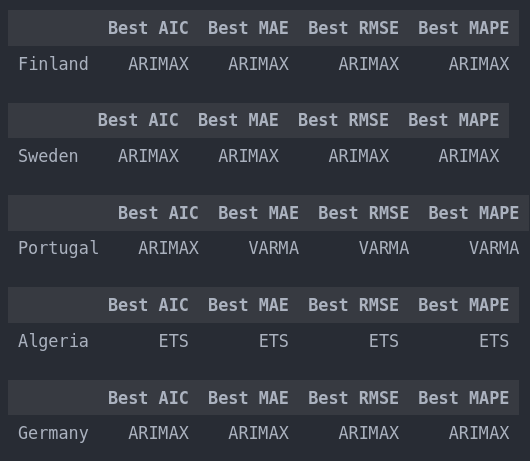
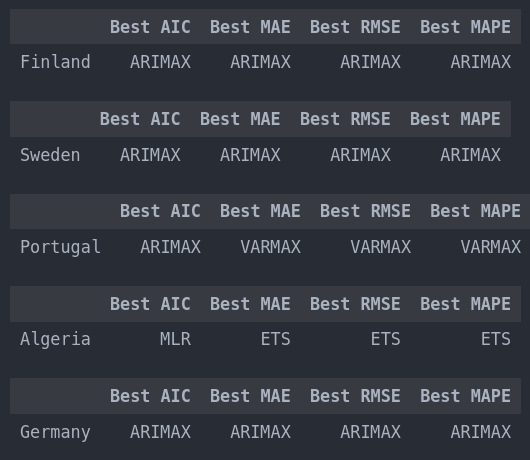
final commit

diff --git a/functions.py b/functions.py
@@ -811,6 +811,14 @@ def grangers_causation_columns(df_train_test_log_dif : dict, nation_list : list)
     """
     For each nation in the nation_list, perform Granger causality tests and return columns that
     Granger cause each other while ensuring GDP is part of the relationship.
+
+    Parameters:
+        df_train_test_log_dif (dict): Dictionary of time series data for each nation.
+
+        nation_list (list): List of nation names.
+
+    Returns:
+        list: list of columns that granger cause each other
     """
     grangers_columns = []
     for nation in nation_list:

diff --git a/README.md b/README.md
@@ -2,19 +2,21 @@
 
 The provided dataset contains estimates of total GDP (gross domestic product) and its components for several countries over the period 1970-2020. This can inform on how these measures have changed over time, and allows to investigate the usefulness of GDP as a measure of wellbeing. These information are available for 220 countries and 17 different indicators were derived.
 
-In "project.ipynb" you can find the main notebook, where the task is carried out. The code here is kept to a minimum to better understand the analysis of the time series and the results; for this purpose, a separate file called "functions.py" storing all the main functions run by the notebook has been created. For better clarity, some documentation about the functions is provided.
+In "project.ipynb" you can find the main notebook where the task is carried out. The code here is kept to a minimum to better understand the analysis of the time series and the results; for this purpose, a separate file called "functions.py" storing all the main functions run by the notebook has been created. For better clarity, some documentation about the functions is provided.
 
 When run, the main notebook will ask a list of 5 countries that the user want to analyze and predict GDP for the years 2010-2020. A complete set of the available nations to input can be found in the file [valid_nations.csv](https://github.com/dariogemo/UNIVR-SMDS/blob/main/valid_nations.csv), which only contains nations from the original dataset that don't have null values and don't lack any of the 17 macroeconomic factors. 
 
 If the user doesn't give any input, the notebook will use the following list as the default nations to analyze: Finland, Sweden, Portugal, Algeria, Germany. The GDP components that are used are Import, Export, Manufacturing, Gross Capital.
 
-For every nation, the notebook follows the following pipeline. Firstly some exporatory data analysis is performed on the datasets. Then, 4 models are created that are later used to predict the GDP values from 2010 to 2020, and lastly the results are confronted to retrieve the best model. In the end the user should end up with the best models at predicting the GDP of the selected nations.
+For every nation, the notebook follows the following pipeline. Firstly some exporatory data analysis is performed on the datasets. Then, 6 models are created that are later used to predict the GDP values from 2010 to 2020, and lastly the results are confronted to retrieve the best model. In the end the user should end up with the best models at predicting the GDP of the selected nations.
 
 The models are the following:
-1. ARIMAX: auto_arima function retrieves the best Arima model with exogenous variables that are all the remaining columns of the dataframe.
-2. ETS: a grid search is performed to find out the best parameters for the model, i.e error, trend, seasonal, seasonal_period and damped_trend.
-3. VARMAX: firstly the columns that granger cause GDP are retrieved. These columns, in addition to the GDP, are used to train the model. The remaining columns are set as exogenous variables. A grid search is performed to find the best "p" and "q" parameters.
-4. VARMA: on the contrary from the VARMAX, here all the columns are used as endogenous variables and no exogenous variables are provided. A grid search is performed to find the best "p" and "q" parameters.
+1. SLR: simple linear regression with GDP as a dependent variable and time as as the predictor
+2. MLR: multiple linear regression, adding the other macroeconomic indicators as predictors
+3. ETS: a grid search is performed to find out the best parameters for the model, i.e error, trend, seasonal, seasonal_period and damped_trend.
+4. ARIMAX: auto_arima function retrieves the best Arima model with exogenous variables that are all the remaining columns of the dataframe.
+5. VARMAX: firstly the columns that granger cause GDP are retrieved. These columns, in addition to the GDP, are used to train the model. The remaining columns are set as exogenous variables. A grid search is performed to find the best "p" and "q" parameters.
+6. VARMA: on the contrary from the VARMAX, here all the columns are used as endogenous variables and no exogenous variables are provided. A grid search is performed to find the best "p" and "q" parameters.
 
 The results of the best models for the default countries are the following.
 
